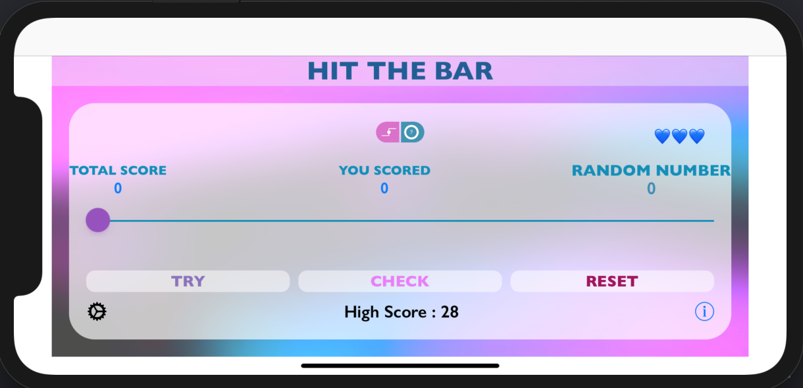
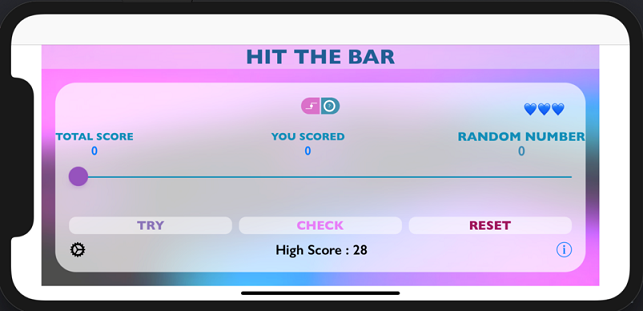
edited readme.md and resized images

diff --git a/Hit the bar/README.md b/Hit the bar/README.md
@@ -1,19 +1,18 @@
-# A basic game built to display our iOS development skills.
-# For basic understanding of the game I've included the presentation in the repo.
+#### A basic game built to display our iOS development skills.
+##### For basic understanding of the game I've included the presentation in the repo.
 
-# Please find some of the screenshots below - 
+#### Please find some of the screenshots below - 
 
-# Landing Screen in portrait orientation
+#### Landing Screen in portrait orientation
 
 ![Landing Screen Portrait](https://github.com/Tarunpreetsingh16/iOS/blob/master/Hit%20the%20bar/images/landingScreen.png)
 
-# Landing Screen in landscape orientation
+#### Landing Screen in landscape orientation
 
 ![Landing Screen Landscape](https://github.com/Tarunpreetsingh16/iOS/blob/master/Hit%20the%20bar/images/landingScreenLandscape.png)
 
 
-# Credit page
-
+#### Credit page
 
 ![Credit Page](https://github.com/Tarunpreetsingh16/iOS/blob/master/Hit%20the%20bar/images/credits.jpg)
 
